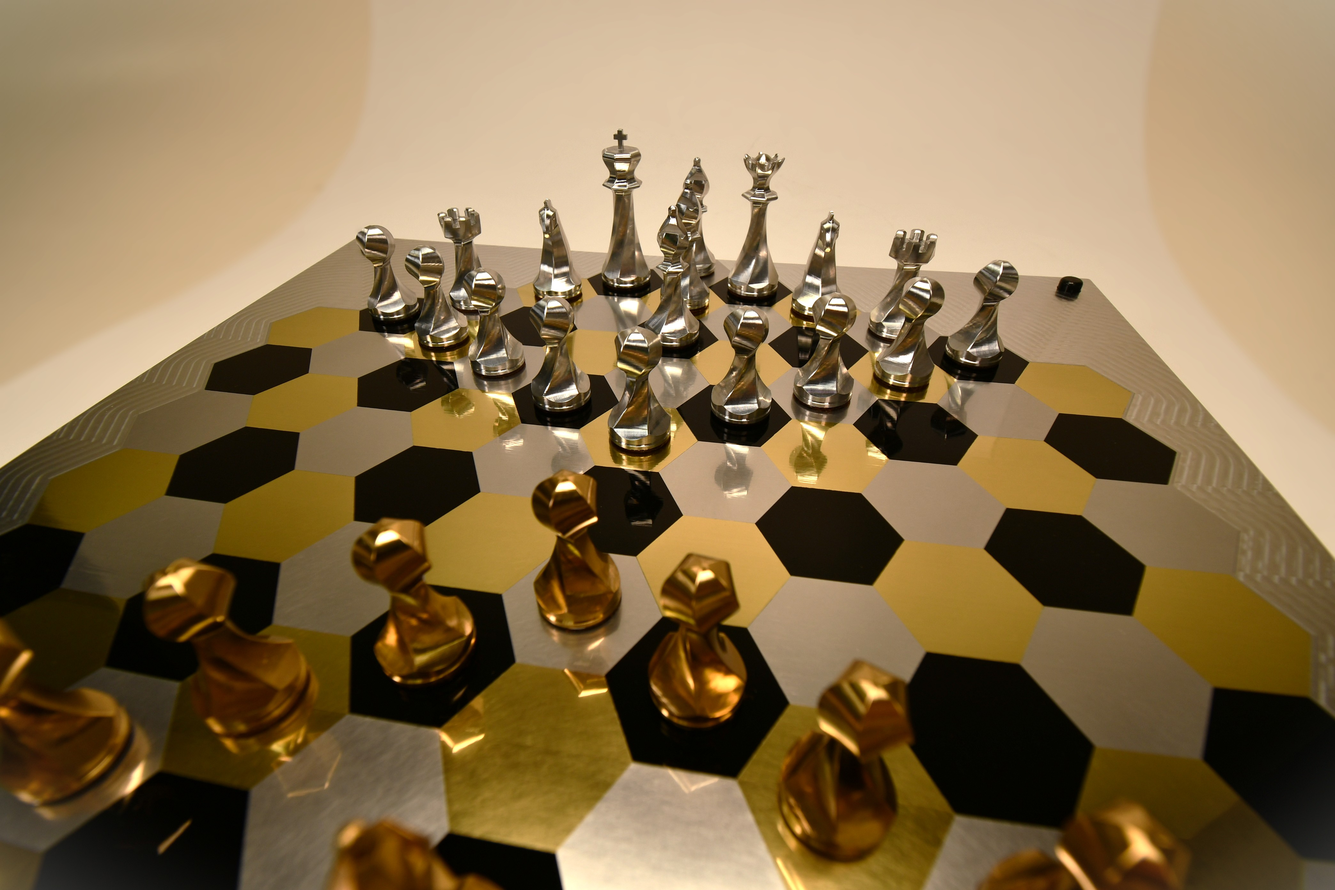
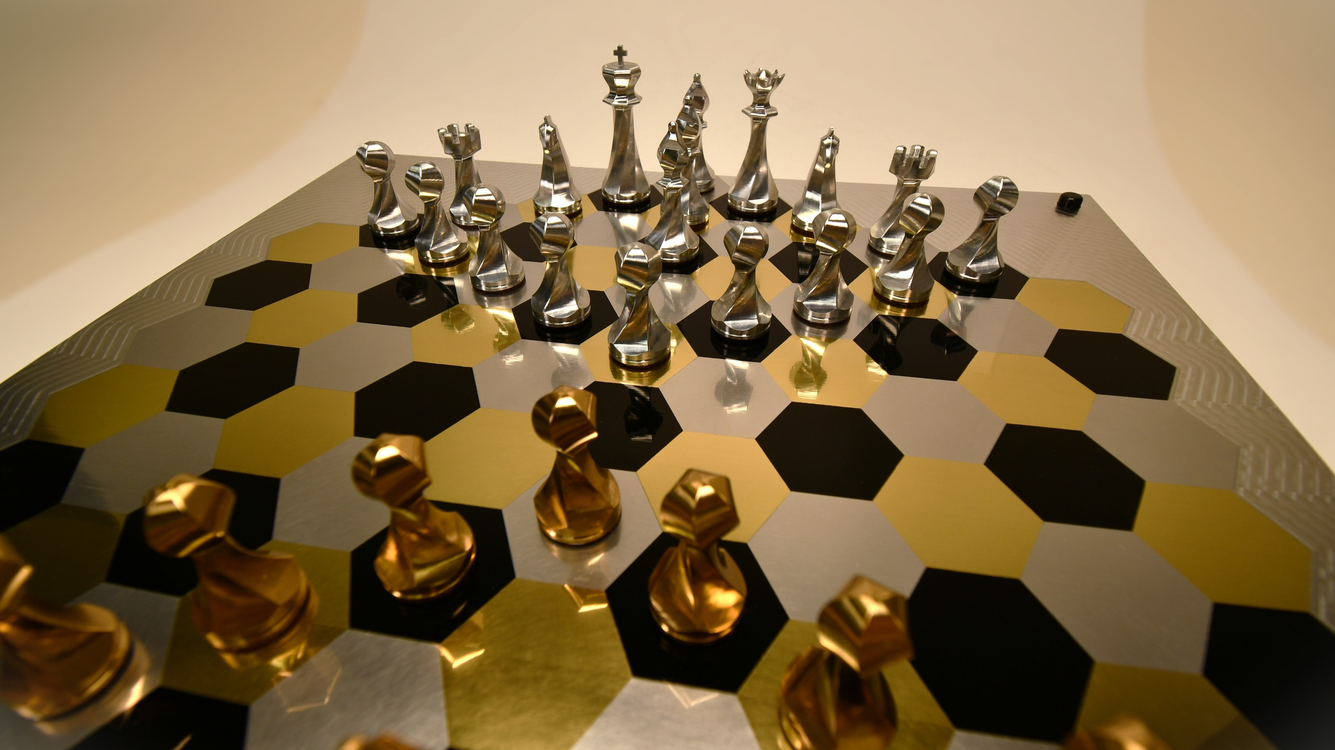
youtube video added

diff --git a/5-Axis Machined Chess.md b/5-Axis Machined Chess.md
@@ -12,6 +12,9 @@ permalink: /Machinistchess
     <p>I started this project to learn how to use a 5 axis CNC machine, and it took me a year and a half to complete. </p>
 </div>
 
+<p>My youtube video shows the cool parts of how everything was made, and the rest of this article goes into more technical details.</p>
+<iframe max_width=90% width="auto" height="auto" src="https://www.youtube.com/embed/FxK-rUIphG4?si=QiNmPGt2uiV6MT5I" title="YouTube video player" frameborder="0" allow="accelerometer; autoplay; clipboard-write; encrypted-media; gyroscope; picture-in-picture; web-share" referrerpolicy="strict-origin-when-cross-origin" allowfullscreen></iframe>
+
 # Boards
 <div class="gallery2">
     <p>All the boards were made by cutting shallow pockets into a thick sheet of aluminium, then inlaying laser cut brass tiles. The main difficultly with this style of manufacture is that milled pockets can’t have sharp corners, so the brass tiles are fileted and don’t touch. The exception was the hexagonal board because it had two tiles being inlayed the corners were mostly external and could be sharp.</p>
